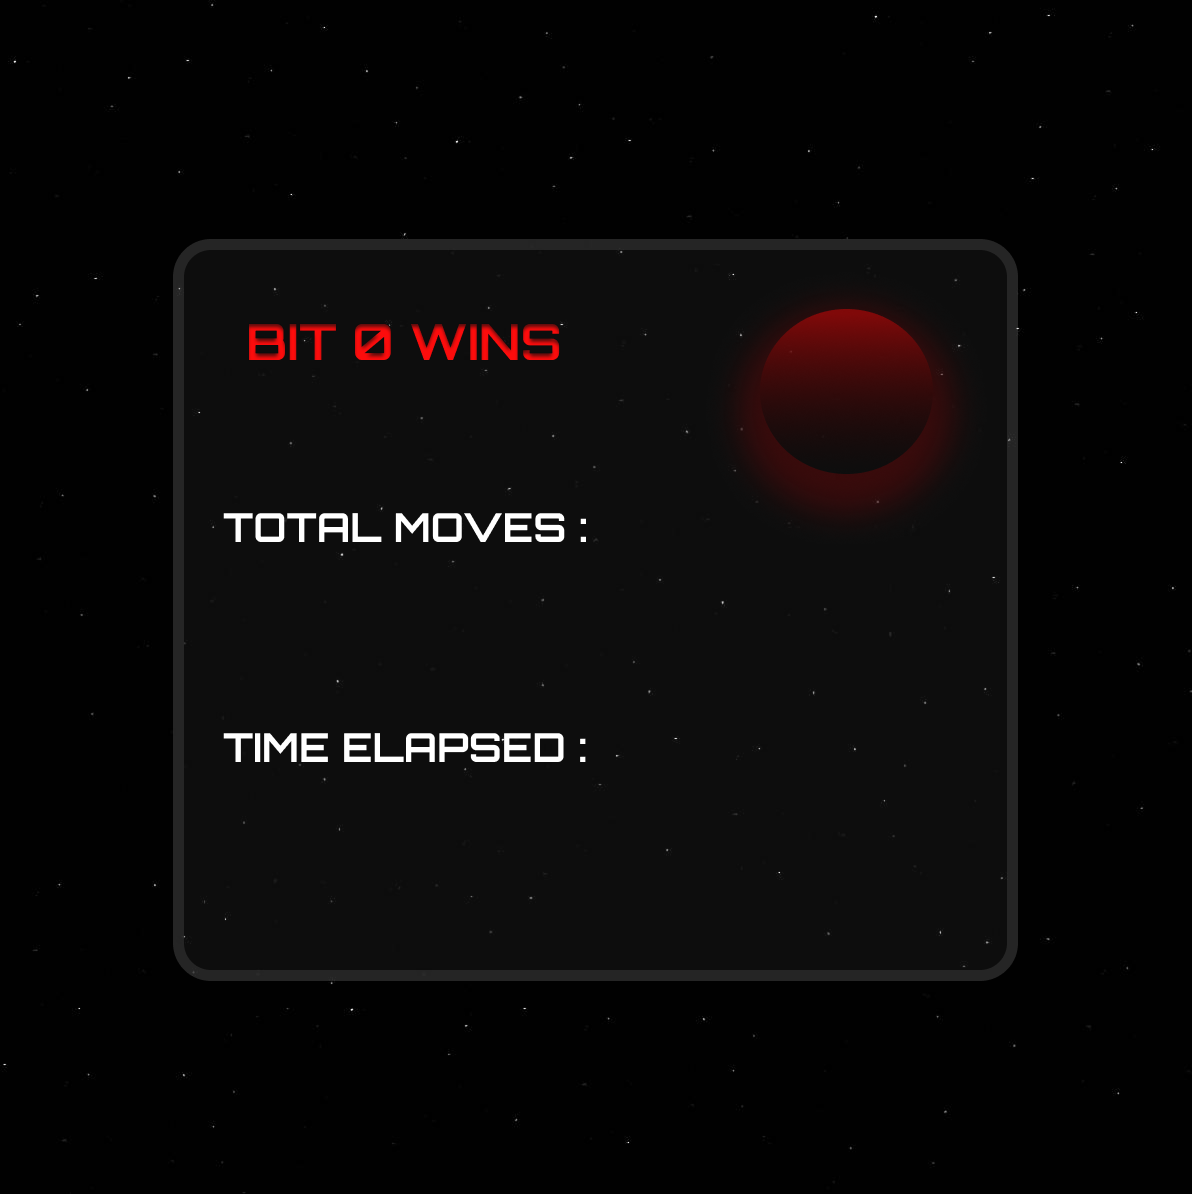
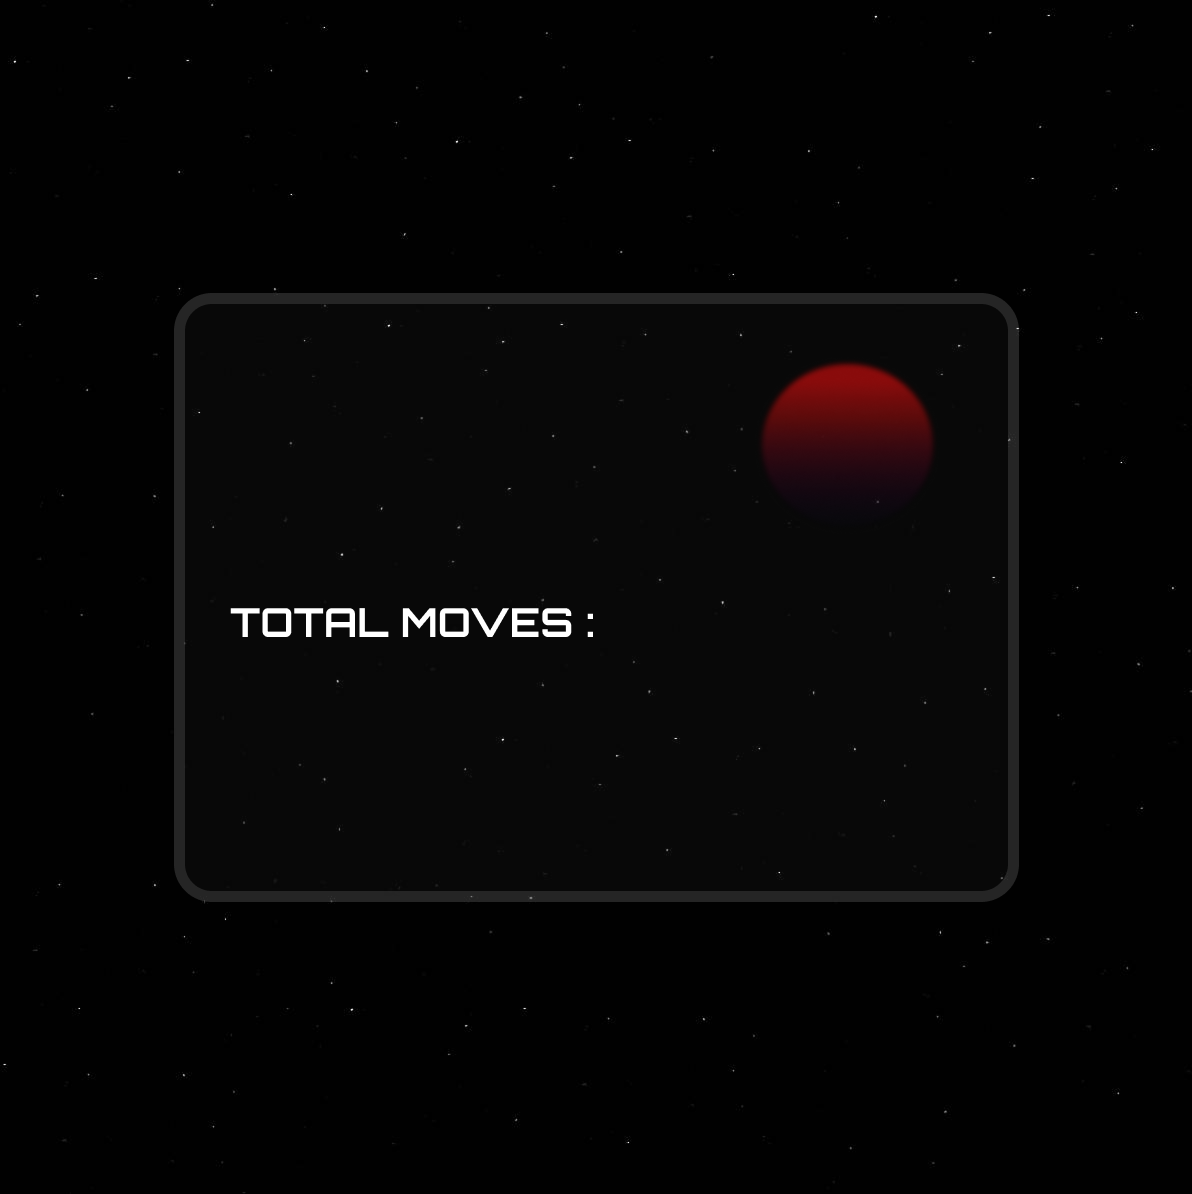
added names to screens and fixed track menu

diff --git a/src/main/java/com/example/javaproject2025/ui/WinnerScreen.java b/src/main/java/com/example/javaproject2025/ui/WinnerScreen.java
@@ -6,8 +6,6 @@ import javafx.scene.image.Image;
 import javafx.scene.image.ImageView;
 import javafx.scene.layout.Pane;
 import javafx.scene.paint.Color;
-import javafx.scene.text.Font;
-import javafx.scene.text.FontWeight;
 import javafx.scene.text.Text;
 import javafx.stage.Stage;
 
@@ -19,8 +17,8 @@ public class WinnerScreen {
 
     private Scene scene;
     public Pane root;
-    public Image bit0WinScreen = new Image(getClass().getResource("/images/bit0WinScreen.png").toExternalForm());
-    public Image bit1WinScreen = new Image(getClass().getResource("/images/bit1WinScreen.png").toExternalForm());
+    public Image bitOneWinScreen = new Image(getClass().getResource("/images/bit0WinScreen.png").toExternalForm());
+    public Image bitTwoWinScreen = new Image(getClass().getResource("/images/bit1WinScreen.png").toExternalForm());
     public ImageView winScreenImageView;
     public String winnerBit;
     public String userOneUsername;
@@ -28,7 +26,8 @@ public class WinnerScreen {
     public String winnerUsername;
     public int winnerScore;
     public String trackName;
-    public Text scoreDisplay = createText("",32, Color.WHITE, 335, 275);
+    public Text scoreDisplay = createText("",24, Color.WHITE, 335, 319);
+    public Text winnerUsernameDisplay = createText("",32, Color.LIGHTGRAY, 120, 225);
 
     public WinnerScreen(Stage primaryStage, String winnerBit, String winnerUsername , int score, String track, String userOneUsername, String userTwoUsername) throws SQLException, ClassNotFoundException {
         this.userOneUsername = userOneUsername;
@@ -46,26 +45,28 @@ public class WinnerScreen {
         mainMenu.setTranslateY(500);
         root = new Pane();
         if(winnerBit.equals("bit1")){
-            winScreenImageView = new ImageView(bit0WinScreen);
+            winScreenImageView = new ImageView(bitOneWinScreen);
             winScreenImageView.setFitHeight(600);
             winScreenImageView.setFitWidth(605);
             winScreenImageView.setPreserveRatio(true);
-            root.getChildren().add(winScreenImageView);
-        }
-        if(winnerBit.equals("bit2")){
-            winScreenImageView = new ImageView(bit1WinScreen);
-            winScreenImageView.setFitHeight(600);
-            winScreenImageView.setFitWidth(605);
-            winScreenImageView.setPreserveRatio(true);
-            root.getChildren().add(winScreenImageView);
+            winnerUsernameDisplay.setText(userOneUsername + " wins!");
+            winnerUsernameDisplay.setFill(Color.RED);
+            root.getChildren().addAll(winScreenImageView, winnerUsernameDisplay);
         }
 
-        root.setStyle("-fx-background-color: black;");
+        if(winnerBit.equals("bit2")){
+            winScreenImageView = new ImageView(bitTwoWinScreen);
+            winScreenImageView.setFitHeight(600);
+            winScreenImageView.setFitWidth(605);
+            winScreenImageView.setPreserveRatio(true);
+            winnerUsernameDisplay.setText(userTwoUsername + " wins!");
+            winnerUsernameDisplay.setFill(Color.BLUE);
+            root.getChildren().addAll(winScreenImageView, winnerUsernameDisplay);
+        }
+
         root.getChildren().addAll(mainMenu, scoreDisplay);
         scene = new Scene(root, 600, 600);
-        primaryStage.setScene(scene);
-        primaryStage.setTitle("Bit Racer");
-        primaryStage.show();
+        primaryStage.setScene(scene); primaryStage.setTitle("Bit Racer"); primaryStage.show();
     }
 
     public void sendScore(String winnerString ,int score) {
@@ -75,12 +76,10 @@ public class WinnerScreen {
 
 
     public void sendScoreToDatabase() throws ClassNotFoundException, SQLException {
-        String userNameFromDatabase;
-        String userPasswordFromDatabase;
         Class.forName("com.mysql.cj.jdbc.Driver");
         Connection connection = DriverManager.getConnection("jdbc:mysql://localhost/bitracer", "root", "bitracerDB");
         Statement statement = connection.createStatement();
-        PreparedStatement ps = null;
+        PreparedStatement ps;
         String insertScoreStatement = "insert into scores values('" + winnerUsername + "','" + winnerScore + "','" + trackName + "')";
         ps = connection.prepareStatement(insertScoreStatement);
         ps.executeUpdate();

diff --git a/src/main/java/com/example/javaproject2025/ui/GameScreen.java b/src/main/java/com/example/javaproject2025/ui/GameScreen.java
@@ -54,8 +54,8 @@ public class GameScreen  {
         mainMenuButton.setTranslateX(480);
         mainMenuButton.setTranslateY(10);
         randomizeTurn();
-        Text bitOneScoreDisplay = createText("BIT 1 SCORE : 0", 18, Color.RED, 20, 530);
-        Text bitTwoScoreDisplay = createText("BIT 2 SCORE : 0", 18, Color.BLUE, 20, 530);
+        Text bitOneScoreDisplay = createText(userOne + " score : 0", 18, Color.RED, 20, 530);
+        Text bitTwoScoreDisplay = createText(userTwo + " score : 0", 18, Color.BLUE, 415, 530);
 
         // finish line
         finishLine.setStartX(335);
@@ -117,7 +117,7 @@ public class GameScreen  {
                         bitOneScore += 1;
                         bit1.launch(10);
                         bit1.moved = true;
-                        bitOneScoreDisplay.setText("BIT 1 SCORE : " + bitOneScore);
+                        bitOneScoreDisplay.setText(userOne + " score : " + bitOneScore);
 //                        bitOneScore.setText("BIT 1 SCORE : " + (bit1Score));
                     }
                 }
@@ -135,7 +135,7 @@ public class GameScreen  {
                         bit1.moved = false;
                         bit2.launch(10);
                         bit2.moved = true;
-                        bitTwoScoreDisplay.setText("BIT 2 SCORE : " + bitTwoScore);
+                        bitTwoScoreDisplay.setText(userTwo + " score : " + bitTwoScore);
                     }
                     case R -> {
                         bit2.getShape().setCenterX(sceneWidth * 5 / 9);

diff --git a/src/main/java/com/example/javaproject2025/testEdwin.java b/src/main/java/com/example/javaproject2025/testEdwin.java
@@ -2,7 +2,6 @@ package com.example.javaproject2025;
 import com.example.javaproject2025.game.Bit;
 import com.example.javaproject2025.game.Track;
 import com.example.javaproject2025.game.Vector;
-import com.example.javaproject2025.ui.GameHUD;
 import javafx.animation.AnimationTimer;
 import javafx.scene.input.KeyCode;
 import javafx.scene.input.KeyEvent;
@@ -32,7 +31,6 @@ public class testEdwin extends Application {
         Pane root = new Pane();
         Scene scene = new Scene(root, 600,600, Color.BLACK);
         Text myText = new Text();
-        GameHUD gameHUD = new GameHUD();
         Text previousBitCoordinates = new Text();
         Bit bit1 = new Bit("bit1", 237, 568, Color.RED);
         root.getChildren().add(gifView);

diff --git a/src/main/java/com/example/javaproject2025/ui/LoginScreen.java b/src/main/java/com/example/javaproject2025/ui/LoginScreen.java
@@ -199,7 +199,6 @@ public class LoginScreen {
             System.out.println(usersLoggedIn);
             try {
                 int result = createAccount(userInputRegisterUsername.getText(), userInputRegisterPassword.getText());
-
                 if (result == 0) {
                     accountCreatedDisplay.setVisible(true);
                     accountCreatedFade.play();
